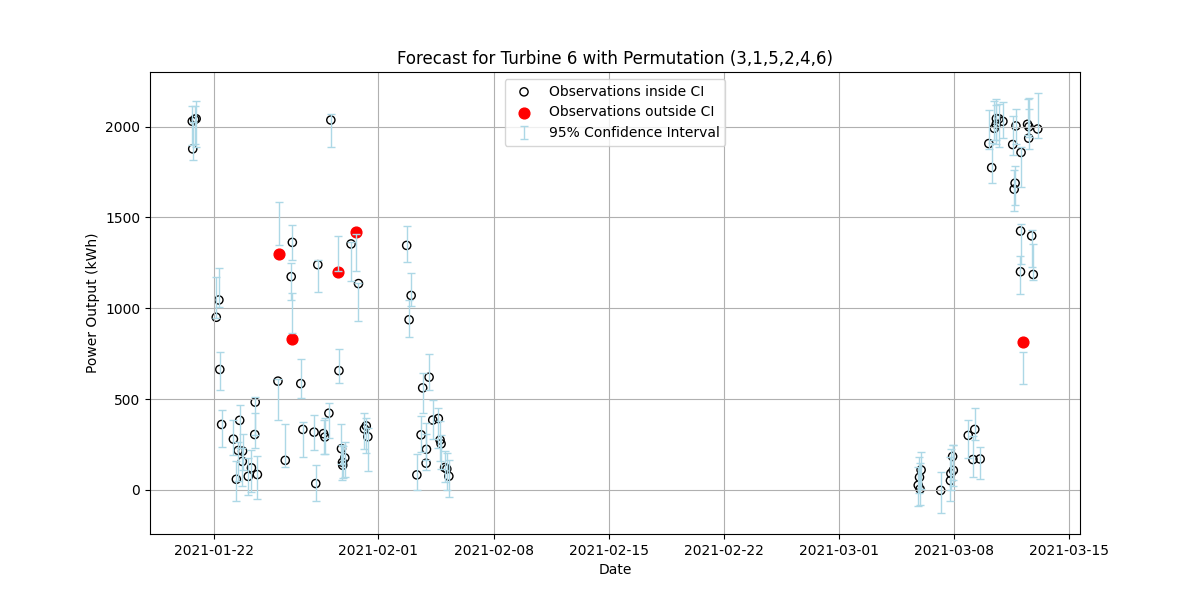
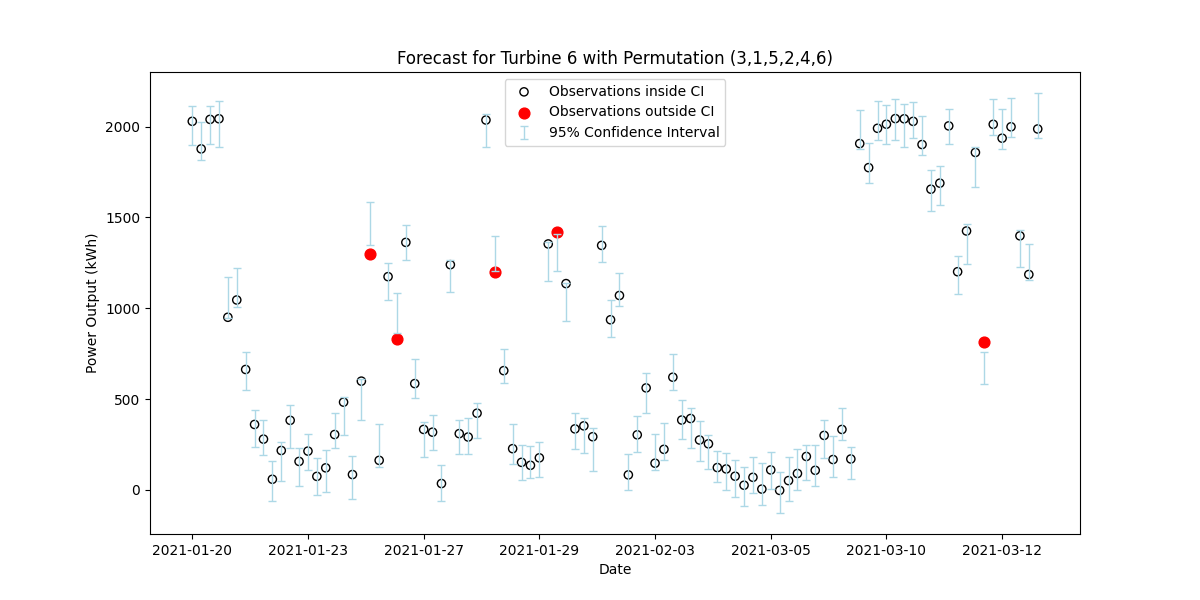
removed grid lines for forecast and made x values uniform

diff --git a/stat0035_project/grapher.py b/stat0035_project/grapher.py
@@ -47,7 +47,7 @@ def plot_graph(x, y_list, model_history_index,
 
     illegal_characters = ['\\', '/', ':', '*', '?', '"', '<', '>', '|', '\0']
 
-    # Validate labels
+    # validate labels
     if x_label:
         contains_illegal_chars(x_label, "x_label")
     if y_label:
@@ -55,9 +55,7 @@ def plot_graph(x, y_list, model_history_index,
 
     plt.figure(figsize=fig_size)
 
-    # Plot each dataset
-
-    if not intervals:  # no confidence intervals, just plot all points
+    if not intervals:
         for i, y in enumerate(y_list):
             color = colors[i] if colors and i < len(colors) else None
             label = labels[i] if labels and i < len(labels) else None
@@ -66,61 +64,62 @@ def plot_graph(x, y_list, model_history_index,
             else:
                 plt.scatter(x, y, label=label, color=color, marker='o')
 
-    else:  # confidence intervals, plot last two lists in y_list as intervals
-        observations = y_list[0]
-        uppers = y_list[-1]
-        lowers = y_list[-2]
-
-        # --------- Plot observations and colour if outside CI ---------
-        inside_CI = np.array(
-            [True if uppers[i] > observations[i] > lowers[i] else False for i in range(len(observations))])
-
+    else:
+        observations = np.array(y_list[0])
+        uppers = np.array(y_list[-1])
+        lowers = np.array(y_list[-2])
         x = np.array(x)
-        observations = np.array(observations)
 
+        # sort all x-dependent arrays
+        sorted_indices = np.argsort(x)
+        x_sorted = x[sorted_indices]
+        x_pos = np.arange(len(x_sorted))
+
+        observations = observations[sorted_indices]
+        uppers = uppers[sorted_indices]
+        lowers = lowers[sorted_indices]
+
+        # check which observations within CI
+        inside_CI = (uppers > observations) & (observations > lowers)
+
+        # Plot observations in/out CI
         if not hollow:
-            plt.scatter(x[inside_CI], observations[inside_CI], label="Observations inside CI", c='black', marker='o', s=35)
+            plt.scatter(x_pos[inside_CI], observations[inside_CI], label="Observations inside CI", c='black',
+                        marker='o', s=35)
         else:
-            plt.scatter(x[inside_CI], observations[inside_CI], label="Observations inside CI", edgecolors='black', facecolors='none', marker='o', s=35)
+            plt.scatter(x_pos[inside_CI], observations[inside_CI], label="Observations inside CI", edgecolors='black',
+                        facecolors='none', marker='o', s=35)
 
-        plt.scatter(x[~inside_CI], observations[~inside_CI], label="Observations outside CI", c='red', marker='o', s=60)
-        # this should always be coloured in, it's meant to draw attention
+        plt.scatter(x_pos[~inside_CI], observations[~inside_CI], label="Observations outside CI", c='red', marker='o',
+                    s=60)
 
-        # --------- take care of anything between observations and bounds ---------
-
+        # plot intermediate curves in y_list
         for i, y in enumerate(y_list):
             if 0 < i < len(y_list) - 2:
+                y = np.array(y)[sorted_indices]
                 color = colors[i] if colors and i < len(colors) else None
                 label = labels[i] if labels and i < len(labels) else None
                 if not hollow:
-                    plt.scatter(x, y, label=label, color=color, marker='o')
+                    plt.scatter(x_pos, y, label=label, color=color, marker='o')
                 else:
-                    plt.scatter(x, y, label=label, edgecolors=color, facecolors='none', marker='o')
+                    plt.scatter(x_pos, y, label=label, edgecolors=color, facecolors='none', marker='o')
 
-        # --------- plot confidence interval ---------
+        # CI bars
+        y_sorted = 0.5 * (uppers + lowers)
+        yerr_lower = y_sorted - lowers
+        yerr_upper = uppers - y_sorted
 
-        uppers = np.array(uppers)
-        lowers = np.array(lowers)
-
-        sorted_indices = np.argsort(x)  # Get indices to sort x in ascending order
-        x_sorted = x[sorted_indices]  # Sort x-values
-        uppers_sorted = uppers[sorted_indices]  # Sort uppers values according to sorted x
-        lowers_sorted = lowers[sorted_indices]  # Sort lowers values according to sorted x
-
-        # Compute central value and asymmetric error
-        y_sorted = 0.5 * (uppers_sorted + lowers_sorted)
-        yerr_lower = y_sorted - lowers_sorted
-        yerr_upper = uppers_sorted - y_sorted
-
-        # Plot vertical bars with horizontal caps
         plt.errorbar(
-            x_sorted, y_sorted,
+            x_pos, y_sorted,
             yerr=[yerr_lower, yerr_upper],
             fmt='none', color='black', ecolor='lightblue', elinewidth=1, capsize=3,
             label='95% Confidence Interval'
         )
 
-    # Set labels and title if provided
+        # reduce the number of x-ticks
+        tick_interval = len(x_sorted) // 7  # show 7 ticks
+        plt.xticks(x_pos[::tick_interval], [ts.date() for ts in x_sorted[::tick_interval]])
+
     if x_label:
         plt.xlabel(x_label)
     if y_label:
@@ -130,46 +129,27 @@ def plot_graph(x, y_list, model_history_index,
     else:
         plt.title(f"{x_label} vs {y_label} - Modelling History Index {model_history_index}")
 
-    # Set axis limits if provided
     if x_limits:
         plt.xlim(x_limits)
     if y_limits:
         plt.ylim(y_limits)
 
+    # legend handling
     if labels:
+        handles, legend_labels = plt.gca().get_legend_handles_labels()
         if calibration > 0:
-            # Get the existing legend handles and labels
-            handles, labels = plt.gca().get_legend_handles_labels()
+            handles.append(plt.Line2D([0], [0], linestyle="none"))
+            legend_labels.append(f"Calibration {round(calibration * 100, 2)}%")
+        plt.legend(handles, legend_labels, loc=legend_loc)
 
-            # Add a dummy handle for the custom text
-            handles.append(plt.Line2D([0], [0], linestyle="none"))  # Invisible handle
-            labels.append(f"Calibration {round(calibration * 100, 2)}%")  # Custom text to add
+    plt.grid(False)
 
-            # Update the legend with the new entry
-            plt.legend(handles, labels, loc=legend_loc)
-
-        else:  # no calibration, just make the legend as normal
-            plt.legend(loc=legend_loc)  # Add legend in the top-left corner if labels are provided
-
-    plt.grid(True)  # Add a grid for better readability
-
-    # Save the figure if a directory is provided
     if save_path:
-        filename = ''
-
-        if title:
-            filename = title
-        else:
-            filename = f"{datetime.now().strftime('%Y-%m-%d_%H-%M')} - {x_label} vs {y_label} - Modelling History Index {model_history_index}"
-        # replace "_" with " " if a title is given
-        # otherwise just do "X vs. Y - Modelling History Index z - 1999-01-01_00-59.png"
-
+        filename = title if title else f"{datetime.now().strftime('%Y-%m-%d_%H-%M')} - {x_label} vs {y_label} - Modelling History Index {model_history_index}"
         full_path = os.path.join(save_path, filename + '.png')
         plt.savefig(full_path)
         print(f"Figure saved at: {full_path}")
-
     else:
-        # only show if not saving
         plt.show()
 
     plt.close()
